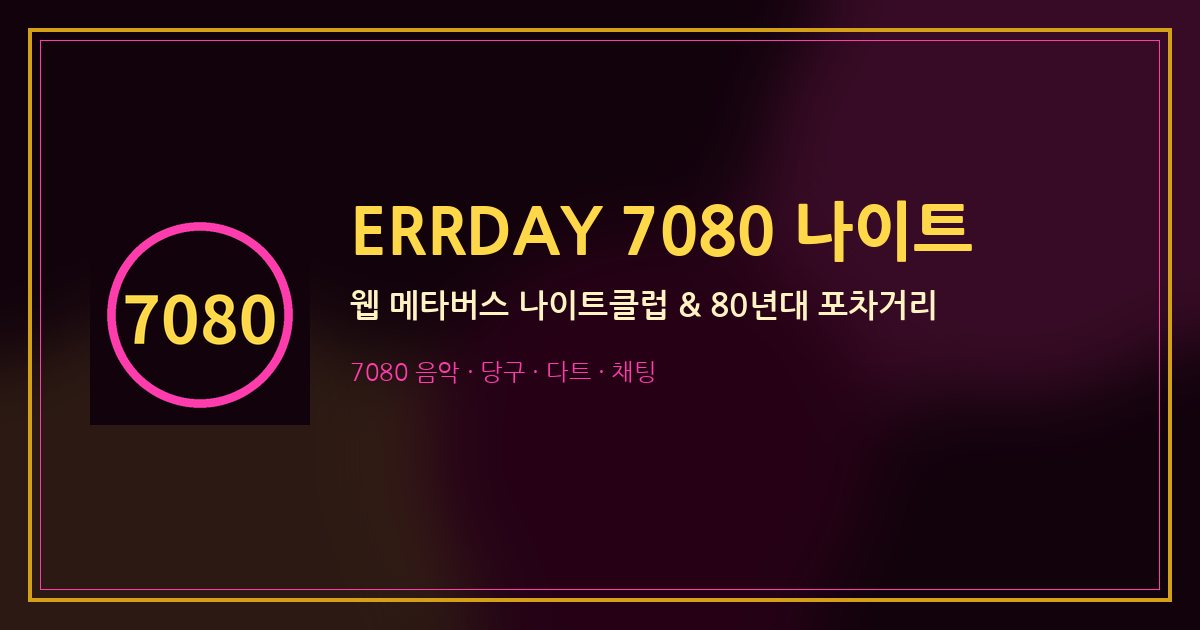
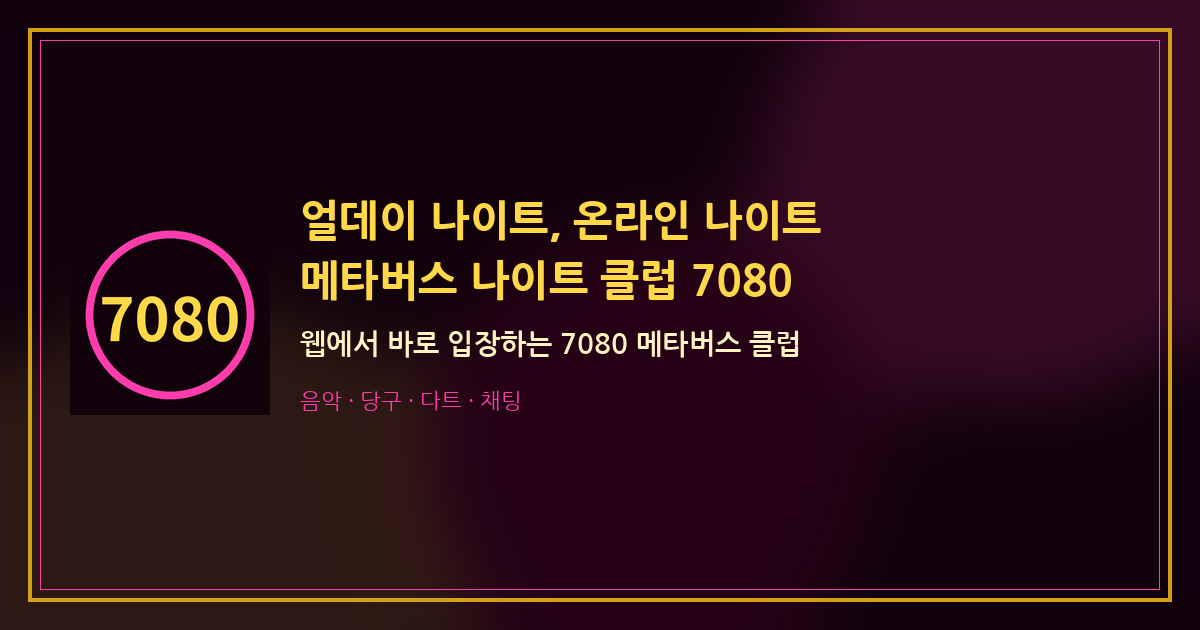
검색·입장 화면 제목을 '얼데이 나이트, 온라인 나이트, 메타버스 나이트 클럽 7080'으로 맞춤
구글에 영어로 보이던 예전 제목과 입장 화면 영문 제목을 한글 제목으로 바꿨다.

Changed region(s): [[0.0617, 0.3016, 0.8017, 0.6937]]

diff --git a/public/index.html b/public/index.html
@@ -1,32 +1,32 @@
 <!doctype html><html lang="ko"><head><meta charset="utf-8">
 <meta name="viewport" content="width=device-width,initial-scale=1,maximum-scale=1,user-scalable=no,interactive-widget=resizes-content,viewport-fit=cover">
 <meta name="referrer" content="strict-origin-when-cross-origin">
-<meta name="mobile-web-app-capable" content="yes"><meta name="apple-mobile-web-app-capable" content="yes"><meta name="apple-mobile-web-app-status-bar-style" content="black-translucent"><meta name="apple-mobile-web-app-title" content="7080 나이트"><meta name="theme-color" content="#12020c"><link rel="manifest" href="manifest.webmanifest?v=20261123i">
-<title>ERRDAY 얼데이 나이트 | 메타버스 나이트·온라인 나이트 7080 메타버스 클럽</title>
-<meta name="description" content="ERRDAY 얼데이 나이트는 브라우저에서 바로 입장하는 메타버스 나이트이자 온라인 나이트입니다. 7080 메타버스 클럽과 포차거리에서 음악, 당구, 다트, 채팅을 함께 즐기세요.">
+<meta name="mobile-web-app-capable" content="yes"><meta name="apple-mobile-web-app-capable" content="yes"><meta name="apple-mobile-web-app-status-bar-style" content="black-translucent"><meta name="apple-mobile-web-app-title" content="얼데이 나이트"><meta name="theme-color" content="#12020c"><link rel="manifest" href="manifest.webmanifest?v=20261123i">
+<title>얼데이 나이트, 온라인 나이트, 메타버스 나이트 클럽 7080</title>
+<meta name="description" content="얼데이 나이트는 브라우저에서 바로 입장하는 메타버스 나이트이자 온라인 나이트입니다. 7080 메타버스 클럽과 포차거리에서 음악, 당구, 다트, 채팅을 함께 즐기세요.">
 <meta name="keywords" content="얼데이 나이트, 온라인 나이트, 메타버스 나이트, 메타버스 클럽, ERRDAY, 7080, 나이트, 나이트클럽, 메타버스, 포차, 당구, 다트, 음악">
 <link rel="canonical" href="https://errday-7080-night.onrender.com/">
 <link rel="icon" href="/icon-192.png" sizes="192x192" type="image/png">
 <meta property="og:type" content="website">
 <meta property="og:locale" content="ko_KR">
-<meta property="og:site_name" content="ERRDAY 얼데이 나이트">
-<meta property="og:title" content="ERRDAY 얼데이 나이트 | 메타버스 나이트·온라인 나이트 7080 메타버스 클럽">
-<meta property="og:description" content="ERRDAY 얼데이 나이트는 브라우저에서 바로 입장하는 메타버스 나이트이자 온라인 나이트입니다. 7080 메타버스 클럽과 포차거리에서 음악, 당구, 다트, 채팅을 함께 즐기세요.">
+<meta property="og:site_name" content="얼데이 나이트, 온라인 나이트, 메타버스 나이트 클럽 7080">
+<meta property="og:title" content="얼데이 나이트, 온라인 나이트, 메타버스 나이트 클럽 7080">
+<meta property="og:description" content="얼데이 나이트는 브라우저에서 바로 입장하는 메타버스 나이트이자 온라인 나이트입니다. 7080 메타버스 클럽과 포차거리에서 음악, 당구, 다트, 채팅을 함께 즐기세요.">
 <meta property="og:url" content="https://errday-7080-night.onrender.com/">
 <meta property="og:image" content="https://errday-7080-night.onrender.com/og-image.png">
 <meta property="og:image:width" content="1200">
 <meta property="og:image:height" content="630">
 <meta name="twitter:card" content="summary_large_image">
-<meta name="twitter:title" content="ERRDAY 얼데이 나이트 | 메타버스 나이트·온라인 나이트 7080 메타버스 클럽">
-<meta name="twitter:description" content="ERRDAY 얼데이 나이트는 브라우저에서 바로 입장하는 메타버스 나이트이자 온라인 나이트입니다. 7080 메타버스 클럽과 포차거리에서 음악, 당구, 다트, 채팅을 함께 즐기세요.">
+<meta name="twitter:title" content="얼데이 나이트, 온라인 나이트, 메타버스 나이트 클럽 7080">
+<meta name="twitter:description" content="얼데이 나이트는 브라우저에서 바로 입장하는 메타버스 나이트이자 온라인 나이트입니다. 7080 메타버스 클럽과 포차거리에서 음악, 당구, 다트, 채팅을 함께 즐기세요.">
 <meta name="twitter:image" content="https://errday-7080-night.onrender.com/og-image.png">
-<script type="application/ld+json">{"@context":"https://schema.org","@type":"WebApplication","name":"ERRDAY 얼데이 나이트","alternateName":["ERRDAY NIGHTCLUB","ERRDAY 7080 나이트","얼데이 나이트","온라인 나이트","메타버스 나이트","메타버스 클럽"],"keywords":"얼데이 나이트, 온라인 나이트, 메타버스 나이트, 메타버스 클럽, 7080, 포차, 당구, 다트","url":"https://errday-7080-night.onrender.com/","description":"ERRDAY 얼데이 나이트는 브라우저에서 바로 입장하는 메타버스 나이트이자 온라인 나이트입니다. 7080 메타버스 클럽과 80년대 포차거리에서 음악, 당구, 다트, 채팅을 함께 즐길 수 있어요.","applicationCategory":"EntertainmentApplication","operatingSystem":"Web browser","inLanguage":"ko","isAccessibleForFree":true,"image":"https://errday-7080-night.onrender.com/og-image.png"}</script>
+<script type="application/ld+json">{"@context":"https://schema.org","@type":"WebApplication","name":"얼데이 나이트, 온라인 나이트, 메타버스 나이트 클럽 7080","alternateName":["ERRDAY 7080 나이트","ERRDAY NIGHTCLUB","얼데이 나이트","온라인 나이트","메타버스 나이트","메타버스 클럽"],"keywords":"얼데이 나이트, 온라인 나이트, 메타버스 나이트, 메타버스 클럽, 7080, 포차, 당구, 다트","url":"https://errday-7080-night.onrender.com/","description":"얼데이 나이트는 브라우저에서 바로 입장하는 메타버스 나이트이자 온라인 나이트입니다. 7080 메타버스 클럽과 80년대 포차거리에서 음악, 당구, 다트, 채팅을 함께 즐길 수 있어요.","applicationCategory":"EntertainmentApplication","operatingSystem":"Web browser","inLanguage":"ko","isAccessibleForFree":true,"image":"https://errday-7080-night.onrender.com/og-image.png"}</script>
 
 <script src="https://aframe.io/releases/1.5.0/aframe.min.js"></script>
 <script src="/socket.io/socket.io.js"></script>
 <link rel="stylesheet" href="style.css?v=20261123i"><link rel="stylesheet" href="https://fonts.googleapis.com/css2?family=Nanum+Pen+Script&display=swap">
 </head><body>
-<noscript><section><h1>ERRDAY 얼데이 나이트</h1><p>ERRDAY 얼데이 나이트는 브라우저에서 바로 입장하는 메타버스 나이트이자 온라인 나이트입니다. 7080 메타버스 클럽과 80년대 포차거리에서 음악, 당구, 다트, 채팅을 함께 즐길 수 있어요.</p></section></noscript>
+<noscript><section><h1>얼데이 나이트, 온라인 나이트, 메타버스 나이트 클럽 7080</h1><p>얼데이 나이트는 브라우저에서 바로 입장하는 메타버스 나이트이자 온라인 나이트입니다. 7080 메타버스 클럽과 80년대 포차거리에서 음악, 당구, 다트, 채팅을 함께 즐길 수 있어요.</p></section></noscript>
 <a-scene renderer="antialias:true;colorManagement:true;maxCanvasWidth:2560;maxCanvasHeight:2560" fog="type:exponential;color:#12020c;density:0.03" vr-mode-ui="enabled:false" loading-screen="enabled:false" device-orientation-permission-ui="enabled:false">
  <a-entity id="world"></a-entity>
  <a-entity id="others"></a-entity>
@@ -36,8 +36,8 @@
 </a-scene>
 <div id="loading"><div class="spin">🪩</div><div id="loadTxt">3D 모델 불러오는 중…</div></div>
 <div id="entry" class="panel center">
- <h1>ERRDAY NIGHTCLUB</h1><div class="sub">ERRDAY 7080 나이트</div>
- <p class="seoIntro">ERRDAY 얼데이 나이트는 브라우저에서 바로 입장하는 메타버스 나이트이자 온라인 나이트입니다. 7080 메타버스 클럽과 80년대 포차거리에서 음악, 당구, 다트, 채팅을 함께 즐길 수 있어요.</p>
+ <h1>얼데이 나이트, 온라인 나이트, 메타버스 나이트 클럽 7080</h1>
+ <p class="seoIntro">얼데이 나이트는 브라우저에서 바로 입장하는 메타버스 나이트이자 온라인 나이트입니다. 7080 메타버스 클럽과 80년대 포차거리에서 음악, 당구, 다트, 채팅을 함께 즐길 수 있어요.</p>
  <label>닉네임 <input id="nick" maxlength="16" placeholder="예: 춤신춤왕"></label>
  <div class="pv"><canvas id="preview" width="240" height="260"></canvas></div>
  <div class="row"><b>성별</b><button class="opt g sel" data-v="m">👨 남</button><button class="opt g" data-v="f">👩 여</button></div>

diff --git a/tests/seo.test.js b/tests/seo.test.js
@@ -42,27 +42,32 @@ function get(p){return new Promise((ok,no)=>{
   const html=h.body.toString('utf8');
   a.match(html,/<html lang="ko">/);
   a.match(html,/name="referrer" content="strict-origin-when-cross-origin"/);
-  a.match(html,/<title>ERRDAY 얼데이 나이트 \| 메타버스 나이트·온라인 나이트 7080 메타버스 클럽<\/title>/);
+  const T='얼데이 나이트, 온라인 나이트, 메타버스 나이트 클럽 7080';
+  a.ok(html.includes('<title>'+T+'</title>'),'exact <title>');
+  a.ok(html.includes('property="og:title" content="'+T+'"'),'exact og:title');
+  a.ok(html.includes('property="og:site_name" content="'+T+'"'),'exact og:site_name');
+  a.ok(html.includes('name="twitter:title" content="'+T+'"'),'exact twitter:title');
+  a.ok(html.includes('"name":"'+T+'"'),'exact JSON-LD name');
+  a.ok(html.includes('<h1>'+T+'</h1>'),'exact lobby/noscript h1');
+  a.ok(!html.includes('<h1>ERRDAY NIGHTCLUB</h1>'),'old English h1 gone');
   a.match(html,/meta name="description"/);
   a.match(html,/meta name="keywords"/);
   for(const k of ['얼데이 나이트','온라인 나이트','메타버스 나이트','메타버스 클럽','7080','당구','다트']){
     a.ok(html.includes(k),'missing keyword: '+k);
-    a.ok((html.match(new RegExp('name="keywords"[^>]+'))||[''])[0].includes(k) || k.length<3, 'keywords meta has '+k);
   }
   a.match(html,/name="keywords"[^>]*얼데이 나이트/);
   a.match(html,/name="keywords"[^>]*온라인 나이트/);
   a.match(html,/name="keywords"[^>]*메타버스 나이트/);
   a.match(html,/name="keywords"[^>]*메타버스 클럽/);
-  a.match(html,/property="og:title"[^>]*얼데이 나이트/);
   a.match(html,/property="og:description"[^>]*메타버스 나이트/);
   a.match(html,/name="twitter:description"[^>]*온라인 나이트/);
-  a.match(html,/class="seoIntro"[^>]*>[^<]*얼데이 나이트[^<]*메타버스 나이트[^<]*온라인 나이트[^<]*메타버스 클럽/);
-  a.match(html,/<noscript>[^]*얼데이 나이트[^]*메타버스 클럽/);
-  a.match(html,/"alternateName":\[[^\]]*얼데이 나이트/);
+  a.match(html,/class="seoIntro"/);
+  a.match(html,/<noscript>/);
+  a.match(html,/"alternateName":\[[^\]]*ERRDAY 7080 나이트/);
+  a.match(html,/"alternateName":\[[^\]]*ERRDAY NIGHTCLUB/);
   a.match(html,/"keywords":"[^"]*얼데이 나이트[^"]*온라인 나이트[^"]*메타버스 나이트[^"]*메타버스 클럽/);
 
   a.match(html,/rel="canonical" href="https:\/\/errday-7080-night\.onrender\.com\/"/);
-  a.match(html,/property="og:title"/);
   a.match(html,/property="og:image" content="https:\/\/errday-7080-night\.onrender\.com\/og-image\.png"/);
   a.match(html,/name="twitter:card" content="summary_large_image"/);
   a.match(html,/application\/ld\+json/);

diff --git a/public/style.css b/public/style.css
@@ -2,7 +2,7 @@ html,body{margin:0;height:100%;overflow:hidden;font-family:'Malgun Gothic','Appl
 input{-webkit-user-select:text;user-select:text}
 .panel{background:rgba(25,2,18,.82);border:2px solid #d4a017;border-radius:12px;padding:10px;box-shadow:0 0 18px #ff3cac66}
 .center{position:fixed;left:50%;top:50%;transform:translate(-50%,-50%);z-index:10;width:min(420px,92vw);max-height:92dvh;overflow:auto;box-sizing:border-box}
-h1{text-align:center;color:#fff3c4;font-family:Georgia,serif;letter-spacing:2px;text-shadow:0 0 10px #ff3cac,0 0 20px #ff3cac;margin:4px 0 0;font-size:26px}
+h1{text-align:center;color:#fff3c4;font-family:Georgia,serif;letter-spacing:0.5px;text-shadow:0 0 10px #ff3cac,0 0 20px #ff3cac;margin:4px 0 8px;font-size:clamp(14px,4.2vw,22px);line-height:1.35;word-break:keep-all}
 .sub{text-align:center;color:#d4a017;margin-bottom:10px}
 #entry .seoIntro{font-size:13px;line-height:1.45;color:#fff3c4;text-align:center;margin:0 0 10px}
 input{background:#2a0020;color:#fff;border:1px solid #d4a017;border-radius:6px;padding:7px;font-size:16px}
